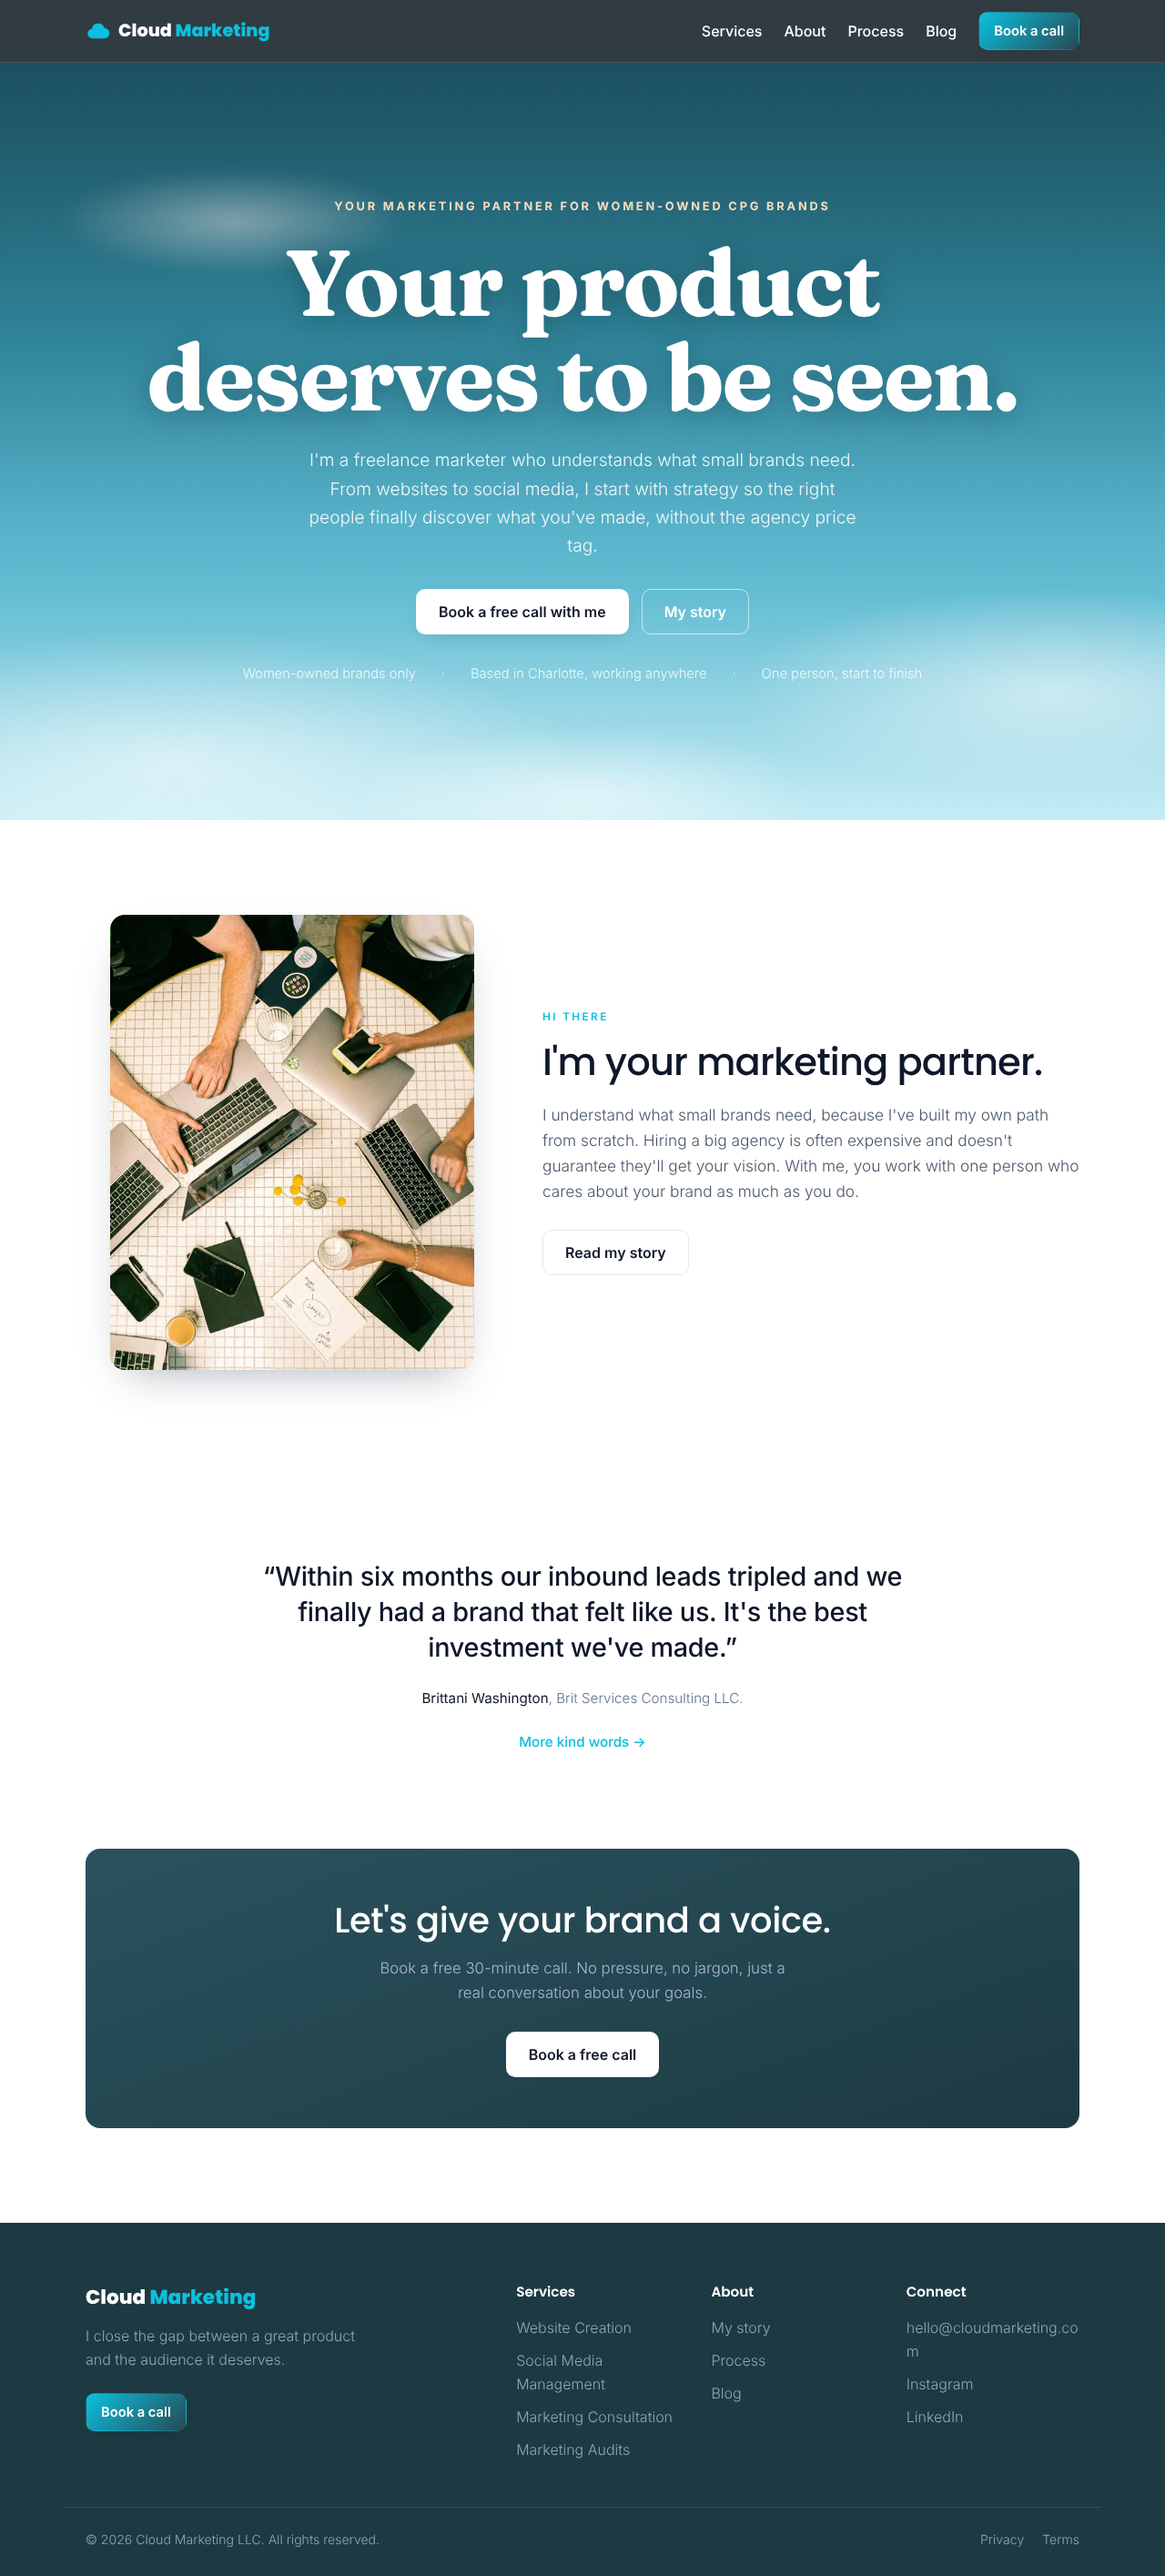
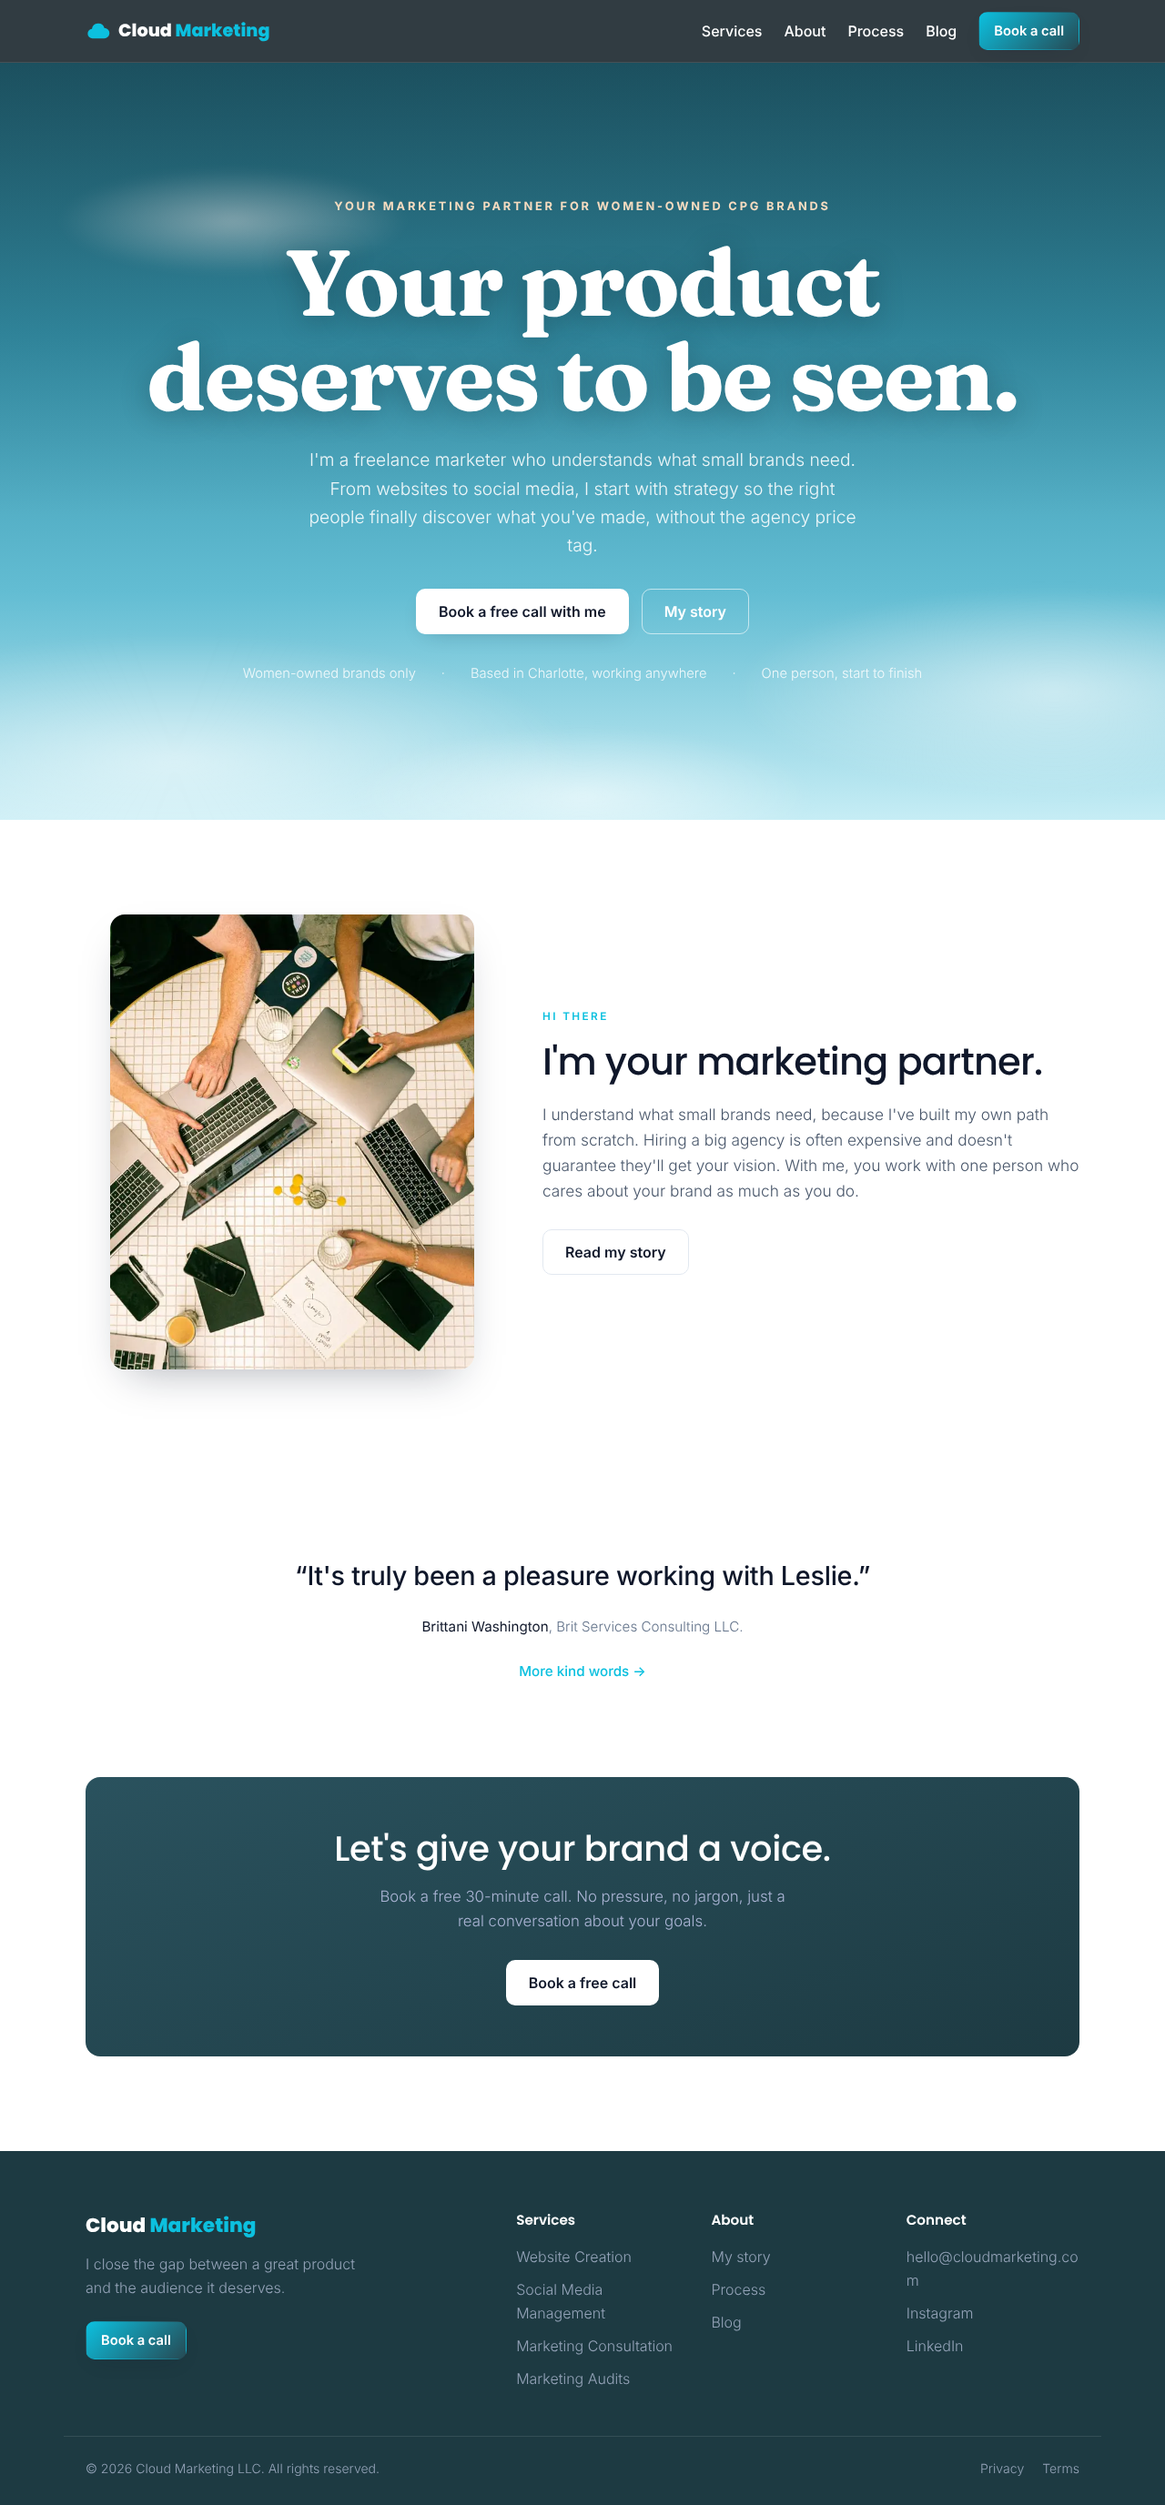
Update Brittani's testimonial
Claude-Session: https://claude.ai/code/session_01BS6Hv8jWvS9UUisMcfmDfK

diff --git a/components/HomeTeasers.tsx b/components/HomeTeasers.tsx
@@ -45,8 +45,7 @@ export function HomeQuote() {
     <section className="section">
       <Reveal from="up" className="container-x mx-auto max-w-[760px] text-center">
         <blockquote className="text-[clamp(1.3rem,2.6vw,1.8rem)] font-medium leading-[1.35] tracking-[-0.01em] text-ink">
-          &ldquo;Within six months our inbound leads tripled and we finally had a
-          brand that felt like us. It&apos;s the best investment we&apos;ve made.&rdquo;
+          &ldquo;It&apos;s truly been a pleasure working with Leslie.&rdquo;
         </blockquote>
         <p className="mt-6 text-[0.95rem] text-muted">
           <strong className="text-ink">Brittani Washington</strong>, Brit Services Consulting LLC.

diff --git a/components/Testimonials.tsx b/components/Testimonials.tsx
@@ -11,7 +11,7 @@ const results = [
 const quotes = [
   {
     quote:
-      "Within six months our inbound leads tripled and we finally had a brand that felt like us. It's the best investment we've made.",
+      "It's truly been a pleasure working with Leslie.",
     initials: "BW",
     name: "Brittani Washington",
     role: "Brit Services Consulting LLC.",
